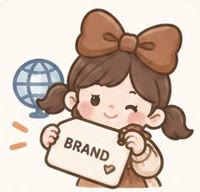
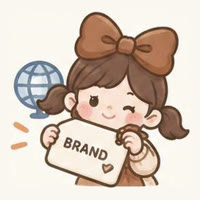
功能圖示重新裁切置中（自動抓插圖範圍）
Claude-Session: https://claude.ai/code/session_016N6vG7J72Eosmct5UvNYs7

Changed region(s): [[0.03, 0.0938, 0.99, 1.0], [0.42, 0.0312, 0.78, 0.3438], [0.39, 0.0938, 0.42, 0.1875]]

diff --git a/index.html b/index.html
@@ -111,10 +111,10 @@
     <div class="pain-copy">
       <h2>你是不是也這樣？</h2>
       <ul class="pain-list">
-        <li><a class="pain-link" href="wardrobe-organizing.html"><img src="assets/img/feature-icons/photos.jpg" alt="" width="200" height="193" loading="lazy"><span>同一件衣服<br>差點又買第二次</span><span class="pain-go" aria-label="看衣櫃整理怎麼做">›</span></a></li>
-        <li><a class="pain-link" href="sell-secondhand.html"><img src="assets/img/feature-icons/share-card.jpg" alt="" width="200" height="175" loading="lazy"><span>購證找不到<br>開樓文案金額算半天</span><span class="pain-go" aria-label="看轉售怎麼賣">›</span></a></li>
-        <li><a class="pain-link" href="kids-clothes-budget.html"><img src="assets/img/feature-icons/stats.jpg" alt="" width="200" height="175" loading="lazy"><span>這個月花了多少<br>到底該怎麼算</span><span class="pain-go" aria-label="看童裝記帳怎麼做">›</span></a></li>
-        <li><a class="pain-link" href="sell-secondhand.html"><img src="assets/img/feature-icons/combo.jpg" alt="" width="200" height="193" loading="lazy"><span>想要主菜搭配菜賣<br>合售價格還要算</span><span class="pain-go" aria-label="看搭售怎麼算">›</span></a></li>
+        <li><a class="pain-link" href="wardrobe-organizing.html"><img src="assets/img/feature-icons/photos.jpg?v=2" alt="" width="200" height="193" loading="lazy"><span>同一件衣服<br>差點又買第二次</span><span class="pain-go" aria-label="看衣櫃整理怎麼做">›</span></a></li>
+        <li><a class="pain-link" href="sell-secondhand.html"><img src="assets/img/feature-icons/share-card.jpg?v=2" alt="" width="200" height="175" loading="lazy"><span>購證找不到<br>開樓文案金額算半天</span><span class="pain-go" aria-label="看轉售怎麼賣">›</span></a></li>
+        <li><a class="pain-link" href="kids-clothes-budget.html"><img src="assets/img/feature-icons/stats.jpg?v=2" alt="" width="200" height="175" loading="lazy"><span>這個月花了多少<br>到底該怎麼算</span><span class="pain-go" aria-label="看童裝記帳怎麼做">›</span></a></li>
+        <li><a class="pain-link" href="sell-secondhand.html"><img src="assets/img/feature-icons/combo.jpg?v=2" alt="" width="200" height="193" loading="lazy"><span>想要主菜搭配菜賣<br>合售價格還要算</span><span class="pain-go" aria-label="看搭售怎麼算">›</span></a></li>
       </ul>
       <p class="pain-answer">交給<span class="nobr">又又買了</span>就對了！</p>
     </div>
@@ -127,47 +127,47 @@
 
     <div class="feature-grid">
       <article class="feature pink">
-        <img class="feature-icon" src="assets/img/feature-icons/add-item.jpg" alt="" width="200" height="193" loading="lazy">
+        <img class="feature-icon" src="assets/img/feature-icons/add-item.jpg?v=2" alt="" width="200" height="193" loading="lazy">
         <h3>截圖匯入</h3>
         <p>購物訂單、社團貼文截圖丟進來，自動抓出名稱、價格、尺寸和照片，不用一筆一筆打。 <a class="more-link" href="handmade-group-buy.html">看更多 →</a></p>
       </article>
       <article class="feature blue">
-        <img class="feature-icon" src="assets/img/feature-icons/photos.jpg" alt="" width="200" height="193" loading="lazy">
+        <img class="feature-icon" src="assets/img/feature-icons/photos.jpg?v=2" alt="" width="200" height="193" loading="lazy">
         <h3>照片分類</h3>
         <p>官方照、實品照、穿拍照、購證分開放，要賣的時候一秒找到。 <a class="more-link" href="sell-secondhand.html">看更多 →</a></p>
       </article>
       <article class="feature yellow">
-        <img class="feature-icon" src="assets/img/feature-icons/share-card.jpg" alt="" width="200" height="175" loading="lazy">
+        <img class="feature-icon" src="assets/img/feature-icons/share-card.jpg?v=2" alt="" width="200" height="175" loading="lazy">
         <h3>一鍵產圖＋文案</h3>
         <p>分享卡片自動排好照片、尺寸、物況和價格，文案也幫你寫好，複製貼上馬上賣。 <a class="more-link" href="sell-secondhand.html">看更多 →</a></p>
       </article>
       <article class="feature pink">
-        <img class="feature-icon" src="assets/img/feature-icons/sale-manage.jpg" alt="" width="200" height="193" loading="lazy">
+        <img class="feature-icon" src="assets/img/feature-icons/sale-manage.jpg?v=2" alt="" width="200" height="193" loading="lazy">
         <h3>開樓不手忙腳亂</h3>
         <p>好幾件一起賣？勾選要賣的商品，主視覺自動拼好，文案和金額也整理好，一頁搞定。 <a class="more-link" href="sale-group.html">看更多 →</a></p>
       </article>
       <article class="feature blue">
-        <img class="feature-icon" src="assets/img/feature-icons/combo.jpg" alt="" width="200" height="193" loading="lazy">
+        <img class="feature-icon" src="assets/img/feature-icons/combo.jpg?v=2" alt="" width="200" height="193" loading="lazy">
         <h3>搭售組合</h3>
         <p>洋裝配髮夾、上衣配褲子，怎麼搭都行，合售價格和文案自動算好。 <a class="more-link" href="sell-secondhand.html">看更多 →</a></p>
       </article>
       <article class="feature yellow">
-        <img class="feature-icon" src="assets/img/feature-icons/outfit.jpg" alt="" width="200" height="175" loading="lazy">
+        <img class="feature-icon" src="assets/img/feature-icons/outfit.jpg?v=2" alt="" width="200" height="175" loading="lazy">
         <h3>穿搭行事曆</h3>
         <p>把衣服排進日曆，沒靈感就抽一張卡，讓每件美衣都穿得到。 <a class="more-link" href="outfit-planner.html">看更多 →</a></p>
       </article>
       <article class="feature pink">
-        <img class="feature-icon" src="assets/img/feature-icons/stats.jpg" alt="" width="200" height="175" loading="lazy">
+        <img class="feature-icon" src="assets/img/feature-icons/stats.jpg?v=2" alt="" width="200" height="175" loading="lazy">
         <h3>花費統計</h3>
         <p>買了多少、賣了多少，每個月一目瞭然。不想被隊友看到？「我看不見」一鍵藏起金額。 <a class="more-link" href="kids-clothes-budget.html">看更多 →</a></p>
       </article>
       <article class="feature blue">
-        <img class="feature-icon" src="assets/img/feature-icons/wishlist.jpg" alt="" width="200" height="168" loading="lazy">
+        <img class="feature-icon" src="assets/img/feature-icons/wishlist.jpg?v=2" alt="" width="200" height="168" loading="lazy">
         <h3>又想買了</h3>
         <p>還沒買到的先記起來，勾幾件就能拼一張「徵這些」的徵文封面。 <a class="more-link" href="wanted-post.html">看更多 →</a></p>
       </article>
       <article class="feature yellow">
-        <img class="feature-icon" src="assets/img/feature-icons/brand.jpg" alt="" width="200" height="193" loading="lazy">
+        <img class="feature-icon" src="assets/img/feature-icons/brand.jpg?v=2" alt="" width="200" height="193" loading="lazy">
         <h3>品牌、衣櫃分清楚</h3>
         <p>照品牌、尺寸、版型分好，大寶、二寶、媽咪、爸比都能有自己的衣櫃。 <a class="more-link" href="wardrobe-organizing.html">看更多 →</a></p>
       </article>

diff --git a/wardrobe-organizing.html b/wardrobe-organizing.html
@@ -59,28 +59,28 @@
 
   <section class="section topic-points">
     <div class="point">
-      <img src="assets/img/feature-icons/photos.jpg" alt="" width="200" height="193" loading="lazy">
+      <img src="assets/img/feature-icons/photos.jpg?v=2" alt="" width="200" height="193" loading="lazy">
       <div>
         <h2>每一件都有照片</h2>
         <p>官方照、實品照、穿拍照分開放。</p>
       </div>
     </div>
     <div class="point">
-      <img src="assets/img/feature-icons/brand.jpg" alt="" width="200" height="193" loading="lazy">
+      <img src="assets/img/feature-icons/brand.jpg?v=2" alt="" width="200" height="193" loading="lazy">
       <div>
         <h2>品牌、尺寸、版型一眼看</h2>
         <p>買之前搜一下，就不會買重複。</p>
       </div>
     </div>
     <div class="point">
-      <img src="assets/img/feature-icons/combo.jpg" alt="" width="200" height="193" loading="lazy">
+      <img src="assets/img/feature-icons/combo.jpg?v=2" alt="" width="200" height="193" loading="lazy">
       <div>
         <h2>大寶、二寶、媽咪、爸比</h2>
         <p>每個人都有自己的衣櫃。</p>
       </div>
     </div>
     <div class="point">
-      <img src="assets/img/feature-icons/sale-manage.jpg" alt="" width="200" height="193" loading="lazy">
+      <img src="assets/img/feature-icons/sale-manage.jpg?v=2" alt="" width="200" height="193" loading="lazy">
       <div>
         <h2>暫時不想看的，收進黑洞</h2>
         <p>清單馬上清爽，要找再挖出來。</p>

diff --git a/kids-clothes-budget.html b/kids-clothes-budget.html
@@ -59,28 +59,28 @@
 
   <section class="section topic-points">
     <div class="point">
-      <img src="assets/img/feature-icons/add-item.jpg" alt="" width="200" height="193" loading="lazy">
+      <img src="assets/img/feature-icons/add-item.jpg?v=2" alt="" width="200" height="193" loading="lazy">
       <div>
         <h2>截圖丟進來就記好</h2>
         <p>名稱、價格、尺寸自動抓。</p>
       </div>
     </div>
     <div class="point">
-      <img src="assets/img/feature-icons/stats.jpg" alt="" width="200" height="193" loading="lazy">
+      <img src="assets/img/feature-icons/stats.jpg?v=2" alt="" width="200" height="193" loading="lazy">
       <div>
         <h2>每個月花多少，一目瞭然</h2>
         <p>買了多少、賣了多少都算好。</p>
       </div>
     </div>
     <div class="point">
-      <img src="assets/img/feature-icons/purchase.jpg" alt="" width="200" height="193" loading="lazy">
+      <img src="assets/img/feature-icons/purchase.jpg?v=2" alt="" width="200" height="193" loading="lazy">
       <div>
         <h2>賣掉的也算進去</h2>
         <p>賺還是賠，馬上知道。</p>
       </div>
     </div>
     <div class="point">
-      <img src="assets/img/feature-icons/settings.jpg" alt="" width="200" height="193" loading="lazy">
+      <img src="assets/img/feature-icons/settings.jpg?v=2" alt="" width="200" height="193" loading="lazy">
       <div>
         <h2>不想被隊友看到？</h2>
         <p>「我看不見」一鍵藏起金額。</p>

diff --git a/handmade-group-buy.html b/handmade-group-buy.html
@@ -59,28 +59,28 @@
 
   <section class="section topic-points">
     <div class="point">
-      <img src="assets/img/feature-icons/brand.jpg" alt="" width="200" height="193" loading="lazy">
+      <img src="assets/img/feature-icons/brand.jpg?v=2" alt="" width="200" height="193" loading="lazy">
       <div>
         <h2>結帳月份、到貨月份都記好</h2>
         <p>一件多個尺寸也能分開記。</p>
       </div>
     </div>
     <div class="point">
-      <img src="assets/img/feature-icons/guide.jpg" alt="" width="200" height="193" loading="lazy">
+      <img src="assets/img/feature-icons/guide.jpg?v=2" alt="" width="200" height="193" loading="lazy">
       <div>
         <h2>製作工作天，自動算到貨</h2>
         <p>品牌填好天數就自動推算。</p>
       </div>
     </div>
     <div class="point">
-      <img src="assets/img/feature-icons/sale-manage.jpg" alt="" width="200" height="193" loading="lazy">
+      <img src="assets/img/feature-icons/sale-manage.jpg?v=2" alt="" width="200" height="193" loading="lazy">
       <div>
         <h2>還沒到的一目瞭然</h2>
         <p>照到貨月份篩選。</p>
       </div>
     </div>
     <div class="point">
-      <img src="assets/img/feature-icons/add-item.jpg" alt="" width="200" height="193" loading="lazy">
+      <img src="assets/img/feature-icons/add-item.jpg?v=2" alt="" width="200" height="193" loading="lazy">
       <div>
         <h2>訂單截圖直接匯入</h2>
         <p>一次匯入好幾件。</p>

diff --git a/wanted-post.html b/wanted-post.html
@@ -59,28 +59,28 @@
 
   <section class="section topic-points">
     <div class="point">
-      <img src="assets/img/feature-icons/wishlist.jpg" alt="" width="200" height="193" loading="lazy">
+      <img src="assets/img/feature-icons/wishlist.jpg?v=2" alt="" width="200" height="193" loading="lazy">
       <div>
         <h2>想買的先記下來</h2>
         <p>名稱、尺寸、照片都存好。</p>
       </div>
     </div>
     <div class="point">
-      <img src="assets/img/feature-icons/share-card.jpg" alt="" width="200" height="193" loading="lazy">
+      <img src="assets/img/feature-icons/share-card.jpg?v=2" alt="" width="200" height="193" loading="lazy">
       <div>
         <h2>徵文文案自動產生</h2>
         <p>複製貼到社團就能發。</p>
       </div>
     </div>
     <div class="point">
-      <img src="assets/img/feature-icons/photos.jpg" alt="" width="200" height="193" loading="lazy">
+      <img src="assets/img/feature-icons/photos.jpg?v=2" alt="" width="200" height="193" loading="lazy">
       <div>
         <h2>勾幾件就拼好封面</h2>
         <p>按「徵這些」自動拼一張。</p>
       </div>
     </div>
     <div class="point">
-      <img src="assets/img/feature-icons/add-item.jpg" alt="" width="200" height="193" loading="lazy">
+      <img src="assets/img/feature-icons/add-item.jpg?v=2" alt="" width="200" height="193" loading="lazy">
       <div>
         <h2>買到啦，直接變商品</h2>
         <p>資料、照片一起帶過去。</p>

diff --git a/sell-secondhand.html b/sell-secondhand.html
@@ -59,28 +59,28 @@
 
   <section class="section topic-points">
     <div class="point">
-      <img src="assets/img/feature-icons/share-card.jpg" alt="" width="200" height="193" loading="lazy">
+      <img src="assets/img/feature-icons/share-card.jpg?v=2" alt="" width="200" height="193" loading="lazy">
       <div>
         <h2>一鍵產出分享卡片</h2>
         <p>照片、尺寸、售價自動排好。</p>
       </div>
     </div>
     <div class="point">
-      <img src="assets/img/feature-icons/wishlist.jpg" alt="" width="200" height="193" loading="lazy">
+      <img src="assets/img/feature-icons/wishlist.jpg?v=2" alt="" width="200" height="193" loading="lazy">
       <div>
         <h2>販售文案自動寫好</h2>
         <p>點一下就有整段文案。</p>
       </div>
     </div>
     <div class="point">
-      <img src="assets/img/feature-icons/photos.jpg" alt="" width="200" height="193" loading="lazy">
+      <img src="assets/img/feature-icons/photos.jpg?v=2" alt="" width="200" height="193" loading="lazy">
       <div>
         <h2>購證跟著商品走</h2>
         <p>不用再翻幾百張相簿。</p>
       </div>
     </div>
     <div class="point">
-      <img src="assets/img/feature-icons/combo.jpg" alt="" width="200" height="193" loading="lazy">
+      <img src="assets/img/feature-icons/combo.jpg?v=2" alt="" width="200" height="193" loading="lazy">
       <div>
         <h2>搭售、開樓，金額自動算</h2>
         <p>合售價格自動算好。</p>

diff --git a/sale-group.html b/sale-group.html
@@ -59,28 +59,28 @@
 
   <section class="section topic-points">
     <div class="point">
-      <img src="assets/img/feature-icons/sale-manage.jpg" alt="" width="200" height="193" loading="lazy">
+      <img src="assets/img/feature-icons/sale-manage.jpg?v=2" alt="" width="200" height="193" loading="lazy">
       <div>
         <h2>勾選商品就開樓</h2>
         <p>從清單勾一勾就建好。</p>
       </div>
     </div>
     <div class="point">
-      <img src="assets/img/feature-icons/photos.jpg" alt="" width="200" height="193" loading="lazy">
+      <img src="assets/img/feature-icons/photos.jpg?v=2" alt="" width="200" height="193" loading="lazy">
       <div>
         <h2>主視覺自動拼好</h2>
         <p>最多 16 張，還能調整構圖。</p>
       </div>
     </div>
     <div class="point">
-      <img src="assets/img/feature-icons/share-card.jpg" alt="" width="200" height="193" loading="lazy">
+      <img src="assets/img/feature-icons/share-card.jpg?v=2" alt="" width="200" height="193" loading="lazy">
       <div>
         <h2>文案、金額整理好</h2>
         <p>全部文案一鍵複製。</p>
       </div>
     </div>
     <div class="point">
-      <img src="assets/img/feature-icons/purchase.jpg" alt="" width="200" height="193" loading="lazy">
+      <img src="assets/img/feature-icons/purchase.jpg?v=2" alt="" width="200" height="193" loading="lazy">
       <div>
         <h2>賣掉了一鍵結單</h2>
         <p>已售自動收進珍藏專區。</p>

diff --git a/outfit-planner.html b/outfit-planner.html
@@ -59,28 +59,28 @@
 
   <section class="section topic-points">
     <div class="point">
-      <img src="assets/img/feature-icons/outfit.jpg" alt="" width="200" height="193" loading="lazy">
+      <img src="assets/img/feature-icons/outfit.jpg?v=2" alt="" width="200" height="193" loading="lazy">
       <div>
         <h2>先放進待穿區</h2>
         <p>想穿的先挑出來。</p>
       </div>
     </div>
     <div class="point">
-      <img src="assets/img/feature-icons/guide.jpg" alt="" width="200" height="193" loading="lazy">
+      <img src="assets/img/feature-icons/guide.jpg?v=2" alt="" width="200" height="193" loading="lazy">
       <div>
         <h2>排進每天的日曆</h2>
         <p>出門前看一眼就好。</p>
       </div>
     </div>
     <div class="point">
-      <img src="assets/img/feature-icons/share-card.jpg" alt="" width="200" height="193" loading="lazy">
+      <img src="assets/img/feature-icons/share-card.jpg?v=2" alt="" width="200" height="193" loading="lazy">
       <div>
         <h2>沒靈感？抽一張卡</h2>
         <p>讓 App 幫你抽一件。</p>
       </div>
     </div>
     <div class="point">
-      <img src="assets/img/feature-icons/combo.jpg" alt="" width="200" height="193" loading="lazy">
+      <img src="assets/img/feature-icons/combo.jpg?v=2" alt="" width="200" height="193" loading="lazy">
       <div>
         <h2>賣掉的自動離開待穿區</h2>
         <p>不會排到已經賣掉的衣服。</p>
